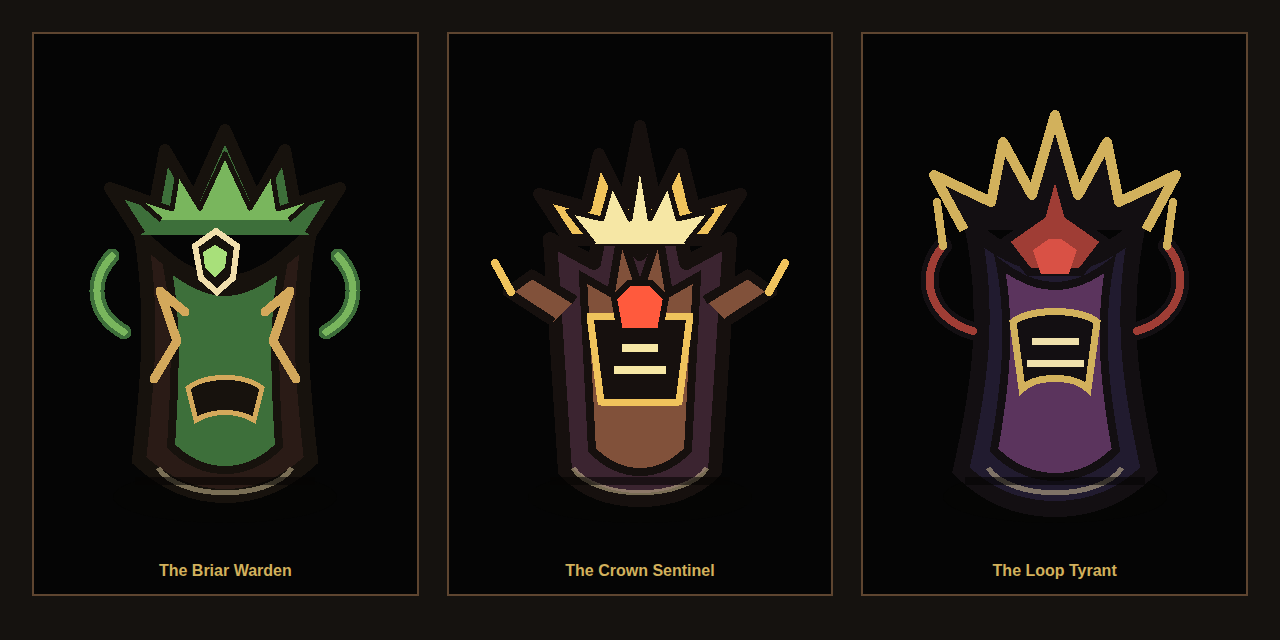
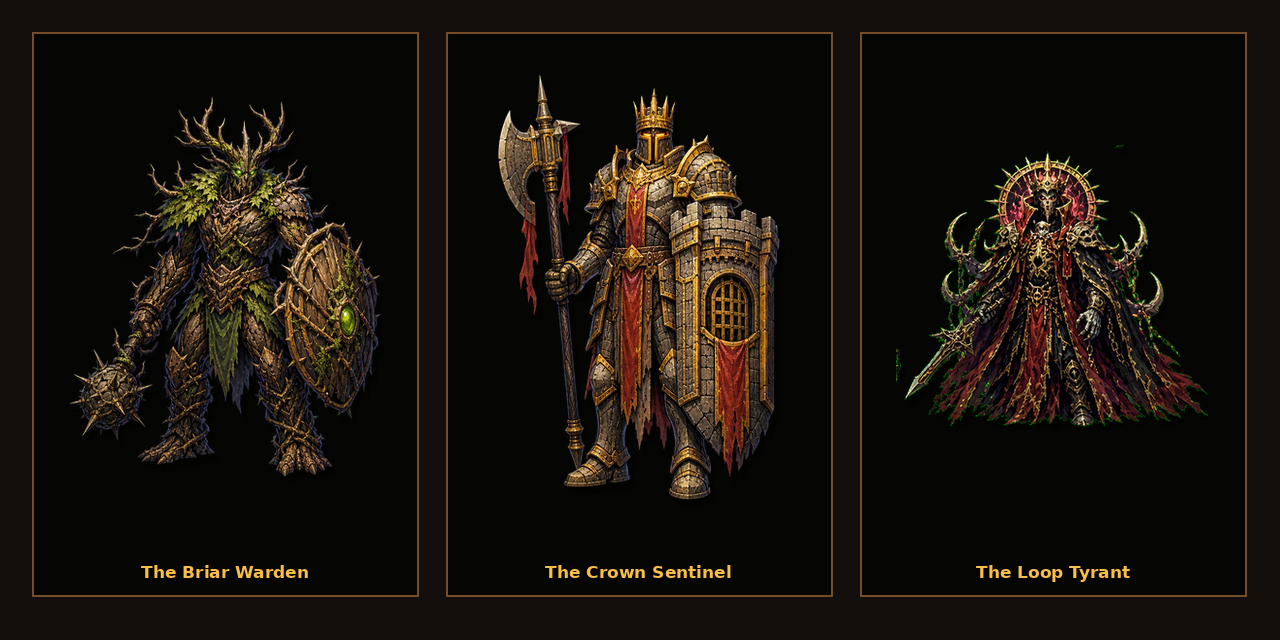
Add PNG boss combat sprites

diff --git a/src/game-assets.ts b/src/game-assets.ts
@@ -17,9 +17,6 @@ function talentArtUrl(traitId: string) {
 }
 
 function combatEnemyUrl(enemyId: string) {
-  if (['briar-warden', 'crown-sentinel', 'loop-tyrant'].includes(enemyId)) {
-    return `/assets/combat/enemy-${enemyId}.svg`;
-  }
   return `/assets/combat/enemy-${enemyId}.png`;
 }
 